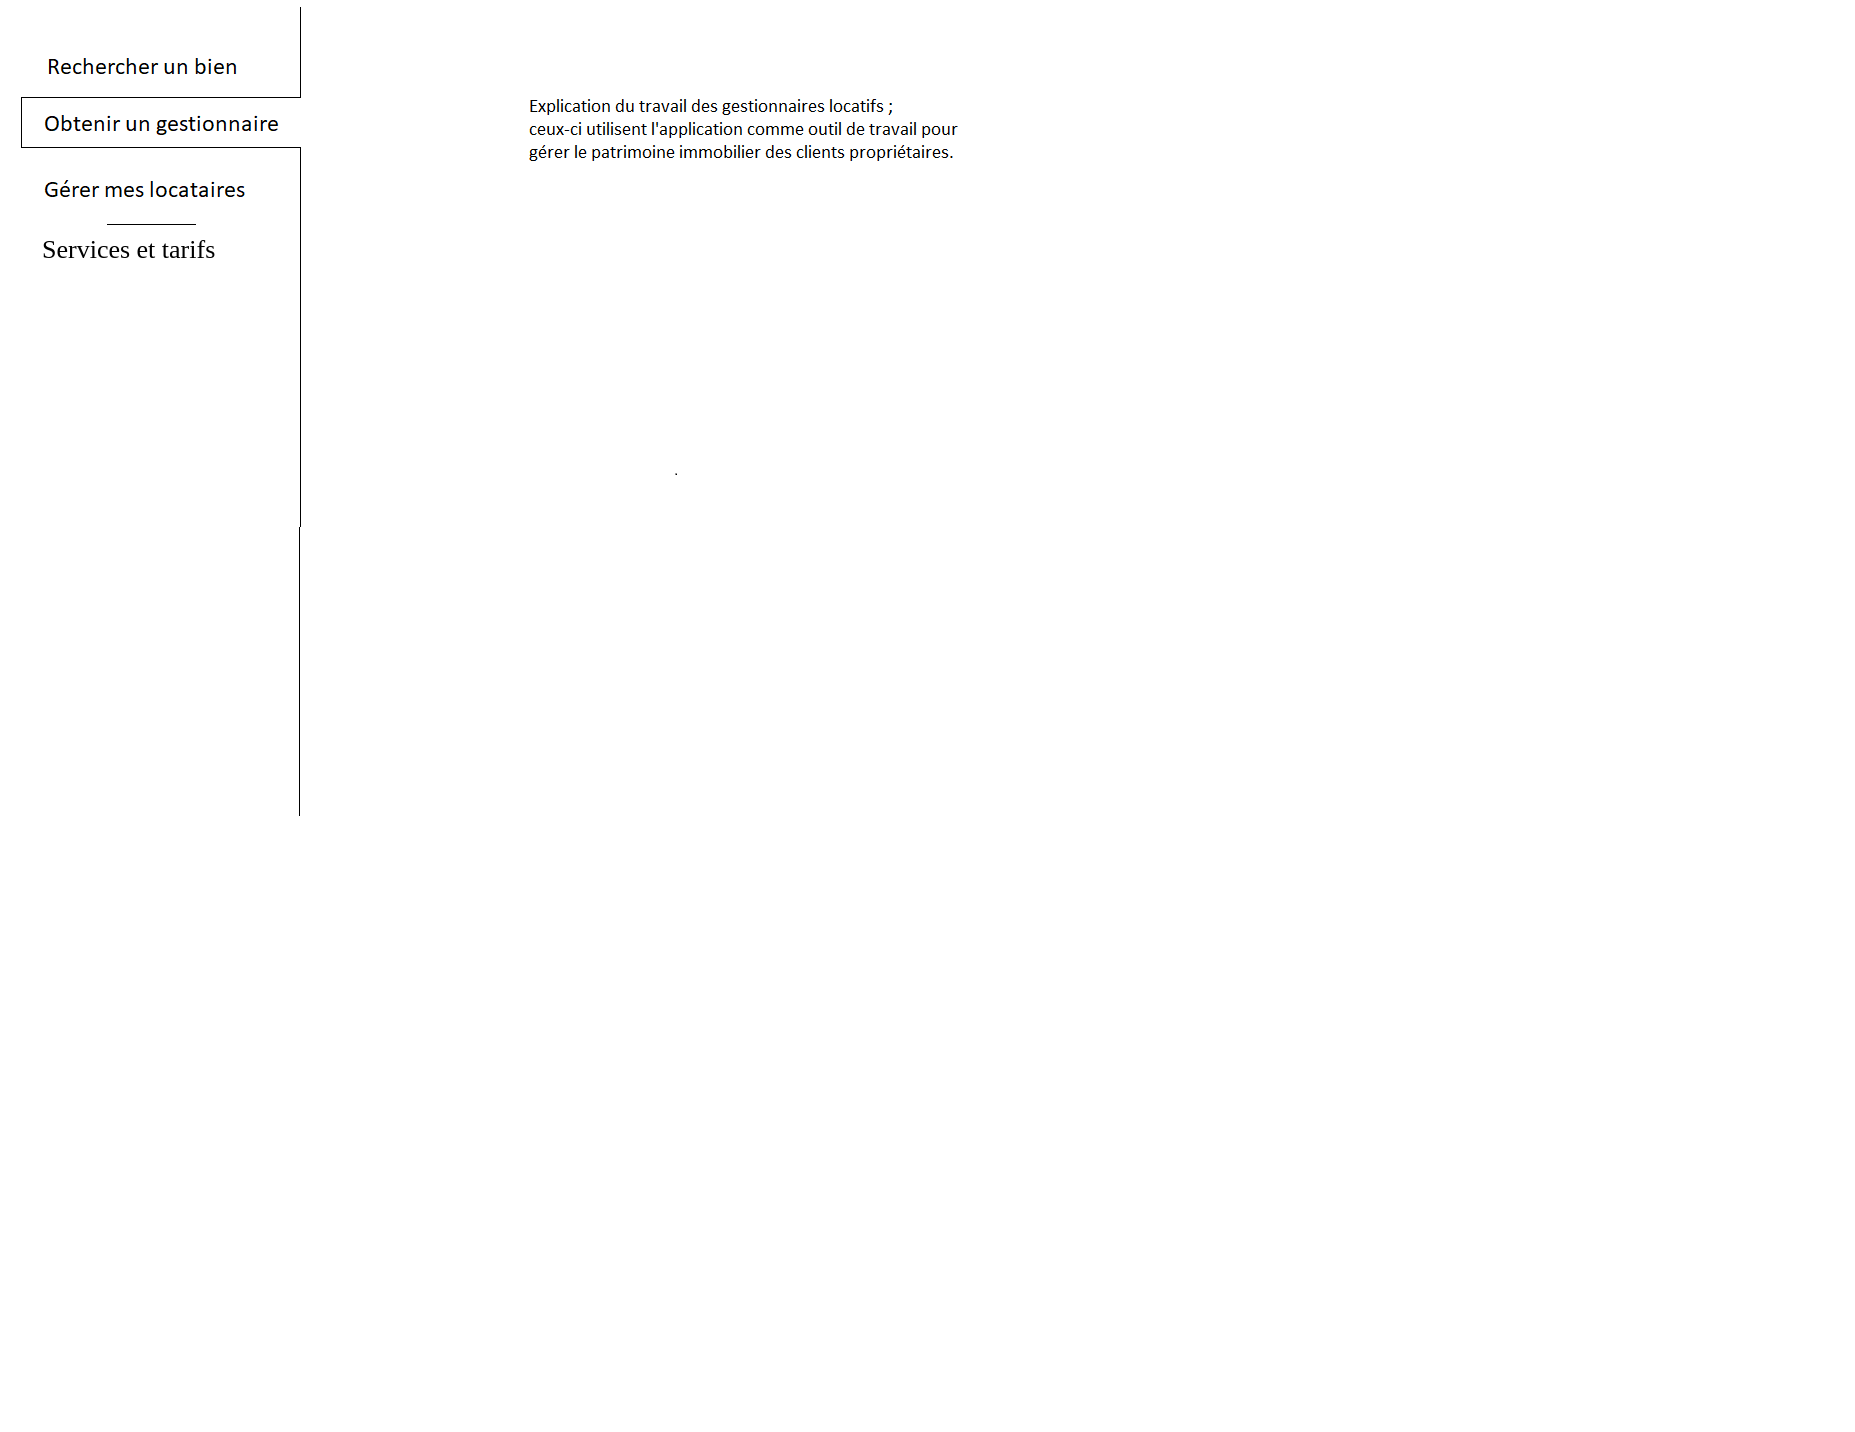
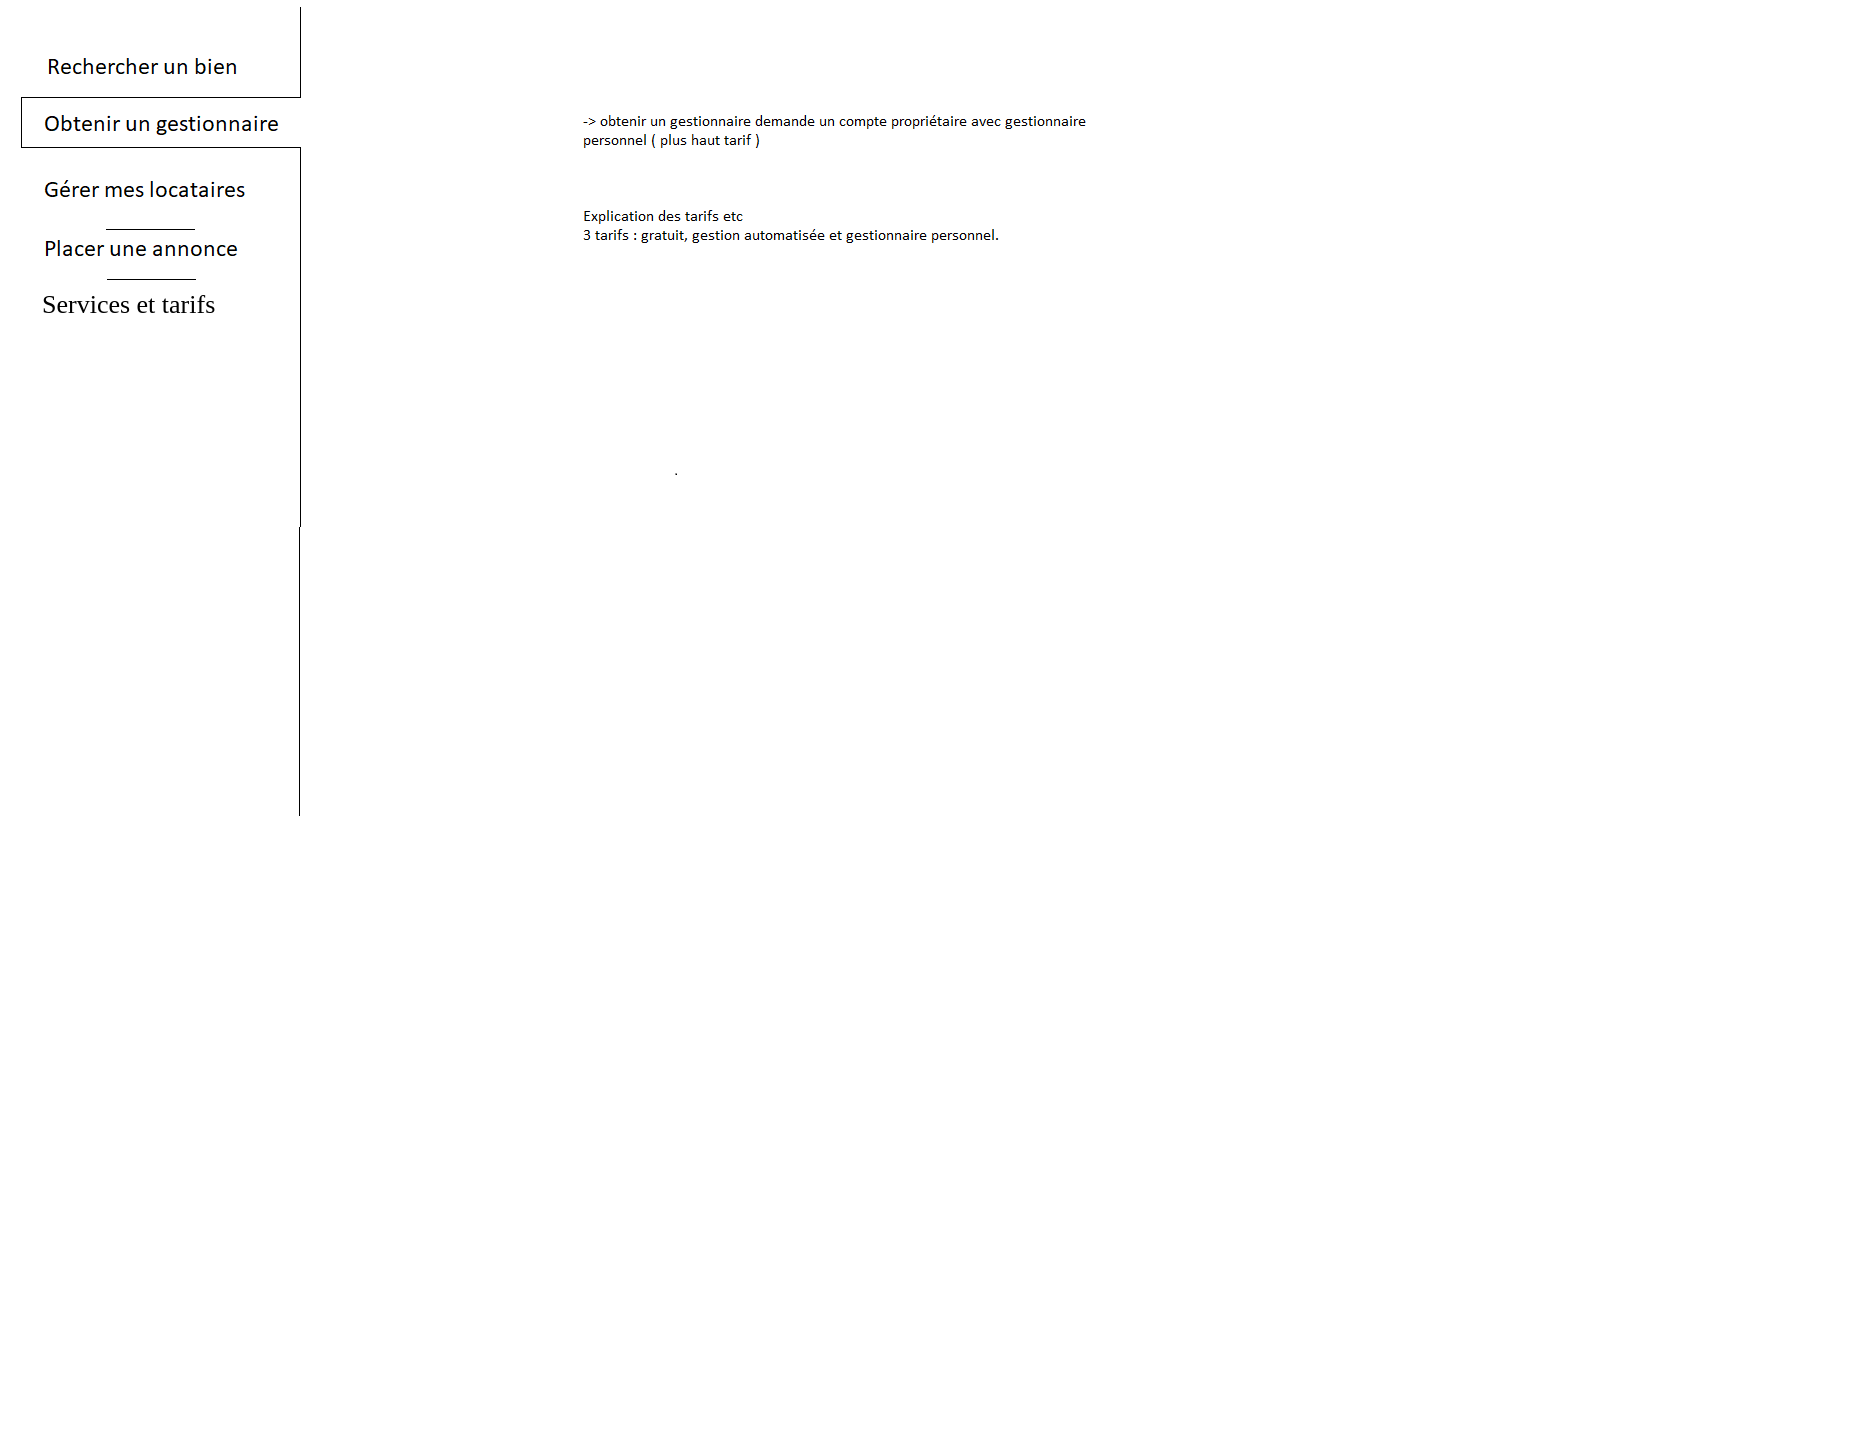
Revert "towards rentier business model"
This reverts commit e1eee1f9831a1ceb07aa86ae05401ed40409a5d7.

Changed region(s): [[0.2765, 0.0615, 0.5838, 0.1229], [0.3073, 0.1536, 0.5224, 0.1844], [0.0307, 0.1536, 0.1229, 0.1844]]

diff --git a/wireframe/home.html b/wireframe/home.html
@@ -4,7 +4,7 @@
   <meta charset="utf-8">
   <title>Propr.io</title>
   <script type="text/javascript">
-
+  // Leny, si tu regardes la structure de cette page, ne me juge pas.
 
    var search_tracker = 'search';
 
@@ -33,10 +33,14 @@
       menu_tracker='meslocataires';
       }
       else if(menu_tracker=='meslocataires'){
-      image.src='img/home/leftmenu/leftmenu_services_tarifs.png';
+      image.src='img/home/leftmenu/leftmenu_annonce.png';
       menu_tracker='services_tarifs';
       }
       else if(menu_tracker=='services_tarifs'){
+      image.src='img/home/leftmenu/leftmenu_services_tarifs.png';
+      menu_tracker='annonce';
+      }
+      else if(menu_tracker=='annonce'){
       image.src='img/home/leftmenu/leftmenu_rechercher.png';
       menu_tracker='search';
       }
@@ -53,10 +57,11 @@
 Au dessus, un en-tête permettant la connexion à l'application web de gestion locative.<br>
 En dessous de cet en-tête, deux liens simulant la connexion à un compte propriétaire et un compte locataire.<br>
 Le reste de la page démarrant en dessous de ces deux liens concerne la partie "référencement" de Propr.io,<br>
-inspirée des sites d'annonces immobilières (Immoweb, Immovlan, Zimmo, etc.). Elle comporte les onglets suivant ;<br>
+inspirée des sites d'annonces immobilières (Immoweb, Immovlan, Zimmo, etc.). Elle comporte 5 onglets :<br>
 - "Rechercher un bien", une recherche dans une base de données d'annonces générées à partir des informations recues par l'application web de gestion locative,<br>
 - "Obtenir un gestionnaire", un gestionnaire personnel gère les visites, états des lieux, problèmes éventuels du locataire, etc. Cet onglet explique cette possibilité.<br>
 - "Gérer mes locataires" présente l'application web de gestion locative.<br>
+- "Placer une annonce" permet à un propriétaire n'ayant pas accès à l'application web de gestion locative de poster une annonce. Celle-ci est limitée en taille et en référencement sur l'onglet "Rechercher un bien".<br>
 - "Services et tarifs" résume les différents comptes et tarifs possibles pour une vue plus claire des options précédentes.<br><br>
 
 Cliquez sur une annonce pour en voir un exemple.
